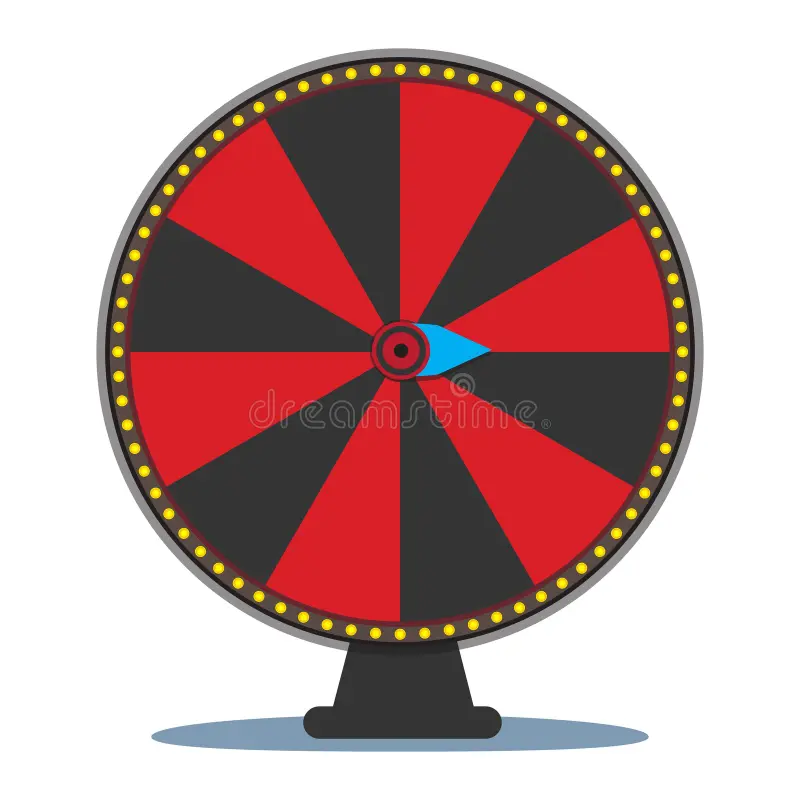
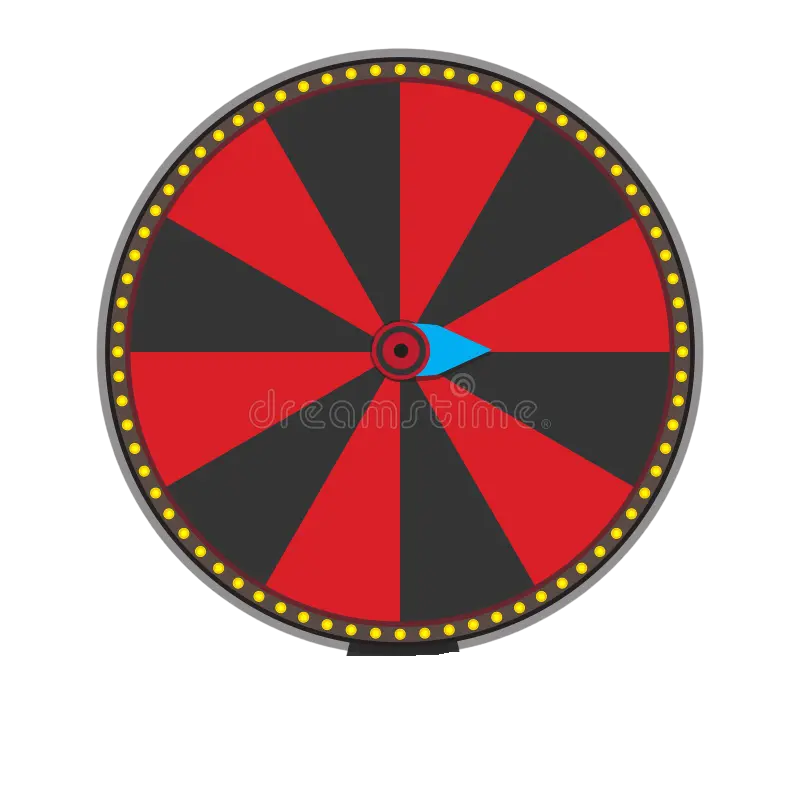
Fix image transparency and sync with updated Figma
- Re-download genie_image22 + genie_image23 (new Figma refs)
- Remove objectFit:cover from all transparent PNGs
- Remove hidden background image (image17) from ThePlotGenieInteractive
- Remove pulse animation from Interactive red button (now static per Figma)

Changed region(s): [[0.1875, 0.8125, 0.8125, 0.9375]]

diff --git a/src/pages/ThePlotGenie.jsx b/src/pages/ThePlotGenie.jsx
@@ -2,9 +2,7 @@ import { useNavigate } from 'react-router-dom'
 import Scene from '../components/Scene'
 
 const base = import.meta.env.BASE_URL
-
-const monoRegular = "'IBM Plex Mono', monospace"
-const monoLight = "'IBM Plex Mono', monospace"
+const mono = "'IBM Plex Mono', monospace"
 
 export default function ThePlotGenie() {
   const navigate = useNavigate()
@@ -13,14 +11,9 @@ export default function ThePlotGenie() {
     <Scene bg="#000">
 
       {/* ── Text block ─────────────────────────────────────────── */}
-      <div style={{
-        position: 'absolute',
-        left: 61,
-        top: 92,
-        width: 327,
-      }}>
+      <div style={{ position: 'absolute', left: 61, top: 92, width: 327 }}>
         <div style={{
-          fontFamily: monoRegular,
+          fontFamily: mono,
           fontSize: 40,
           fontWeight: 400,
           color: '#fff',
@@ -30,7 +23,7 @@ export default function ThePlotGenie() {
           The Plot Genie.
         </div>
         <div style={{
-          fontFamily: monoLight,
+          fontFamily: mono,
           fontSize: 13,
           fontWeight: 200,
           color: '#fff',
@@ -43,21 +36,21 @@ By relying on mathematical permutations instead of individual composition, the d
         </div>
       </div>
 
-      {/* ── Images ─────────────────────────────────────────────── */}
+      {/* ── Images — transparent PNGs, no objectFit fill ─────── */}
       <img
         src={`${base}images/genie_image23.png`}
         alt=""
-        style={{ position: 'absolute', left: 556, top: 216, width: 372, height: 459, objectFit: 'cover' }}
+        style={{ position: 'absolute', left: 556, top: 216, width: 372, height: 459, display: 'block' }}
       />
       <img
         src={`${base}images/genie_image22.png`}
         alt=""
-        style={{ position: 'absolute', left: 438, top: 272, width: 203, height: 383, objectFit: 'cover' }}
+        style={{ position: 'absolute', left: 438, top: 272, width: 203, height: 383, display: 'block' }}
       />
       <img
         src={`${base}images/genie_vector19.png`}
         alt=""
-        style={{ position: 'absolute', left: 673, top: 272, width: 249, height: 394, objectFit: 'contain' }}
+        style={{ position: 'absolute', left: 673, top: 272, width: 249, height: 394, display: 'block' }}
       />
 
       {/* ── Red start button ───────────────────────────────────── */}
@@ -78,52 +71,29 @@ By relying on mathematical permutations instead of individual composition, the d
         onMouseLeave={e => e.currentTarget.style.transform = 'scale(1)'}
       />
 
-      {/* ── Right sidebar bar + label ───────────────────────────── */}
+      {/* ── Right sidebar ──────────────────────────────────────── */}
       <div style={{
-        position: 'absolute',
-        left: 1372,
-        top: 248,
-        width: 38,
-        height: 330,
-        background: '#fff',
+        position: 'absolute', left: 1372, top: 248, width: 38, height: 330, background: '#fff',
       }} />
       <div style={{
-        position: 'absolute',
-        left: 1347,
-        top: 590,
-        width: 88,
-        fontFamily: 'Inter, sans-serif',
-        fontSize: 12,
-        fontWeight: 400,
-        color: '#fff',
-        lineHeight: '16px',
+        position: 'absolute', left: 1347, top: 590,
+        fontFamily: 'Inter, sans-serif', fontSize: 12, color: '#fff', lineHeight: '16px', whiteSpace: 'pre-wrap',
       }}>
-        Money{'\n'}Making $
+        {'Money\nMaking $'}
       </div>
 
       {/* ── Timeline ────────────────────────────────────────────── */}
-      {/* Horizontal line */}
       <div style={{ position: 'absolute', left: 384, top: 805, width: 672, height: 1, background: '#fff' }} />
-      {/* Ellipse at 1930 */}
       <div style={{
-        position: 'absolute',
-        left: 359,
-        top: 784,
-        width: 50,
-        height: 50,
-        borderRadius: '50%',
-        border: '1px solid #fff',
+        position: 'absolute', left: 359, top: 784, width: 50, height: 50,
+        borderRadius: '50%', border: '1px solid #fff',
       }} />
-      {/* Tick 1930 */}
       <div style={{ position: 'absolute', left: 384, top: 788, width: 1, height: 41, background: '#fff' }} />
-      {/* Tick 1962 */}
       <div style={{ position: 'absolute', left: 720, top: 788, width: 1, height: 41, background: '#fff' }} />
-      {/* Tick 2026 */}
       <div style={{ position: 'absolute', left: 1057, top: 784, width: 1, height: 41, background: '#fff' }} />
-      {/* Year labels */}
-      <div style={{ position: 'absolute', left: 369, top: 841, fontFamily: monoRegular, fontSize: 11, color: '#fff' }}>1930</div>
-      <div style={{ position: 'absolute', left: 705, top: 830, fontFamily: monoRegular, fontSize: 11, color: '#fff' }}>1962</div>
-      <div style={{ position: 'absolute', left: 1042, top: 830, fontFamily: monoRegular, fontSize: 11, color: '#fff' }}>2026</div>
+      <div style={{ position: 'absolute', left: 369, top: 841, fontFamily: mono, fontSize: 11, color: '#fff' }}>1930</div>
+      <div style={{ position: 'absolute', left: 705, top: 830, fontFamily: mono, fontSize: 11, color: '#fff' }}>1962</div>
+      <div style={{ position: 'absolute', left: 1042, top: 830, fontFamily: mono, fontSize: 11, color: '#fff' }}>2026</div>
 
     </Scene>
   )

diff --git a/src/pages/ThePlotGenieInteractive.jsx b/src/pages/ThePlotGenieInteractive.jsx
@@ -9,65 +9,41 @@ export default function ThePlotGenieInteractive() {
   return (
     <Scene bg="#000">
 
-      {/* ── Background image ───────────────────────────────────── */}
-      <img
-        src={`${base}images/genie_bg.png`}
-        alt=""
-        style={{ position: 'absolute', left: 420, top: 150, width: 600, height: 600, objectFit: 'cover', opacity: 0.6 }}
-      />
-
-      {/* ── Images (same as Plot Genie) ─────────────────────────── */}
+      {/* ── Images — transparent PNGs, exact Figma dims ─────── */}
       <img
         src={`${base}images/genie_image23.png`}
         alt=""
-        style={{ position: 'absolute', left: 556, top: 216, width: 372, height: 459, objectFit: 'cover' }}
+        style={{ position: 'absolute', left: 556, top: 216, width: 372, height: 459, display: 'block' }}
       />
       <img
         src={`${base}images/genie_image22.png`}
         alt=""
-        style={{ position: 'absolute', left: 438, top: 272, width: 203, height: 383, objectFit: 'cover' }}
+        style={{ position: 'absolute', left: 438, top: 272, width: 203, height: 383, display: 'block' }}
       />
       <img
         src={`${base}images/genie_vector19.png`}
         alt=""
-        style={{ position: 'absolute', left: 673, top: 272, width: 249, height: 394, objectFit: 'contain' }}
+        style={{ position: 'absolute', left: 673, top: 272, width: 249, height: 394, display: 'block' }}
       />
 
-      {/* ── Red button (active / spinning state) ───────────────── */}
-      <div
-        style={{
-          position: 'absolute',
-          left: 765,
-          top: 415,
-          width: 52,
-          height: 49,
-          borderRadius: '50%',
-          background: '#E70303',
-          cursor: 'default',
-          animation: 'pulse 1.5s ease-in-out infinite',
-        }}
-      />
+      {/* ── Red button ─────────────────────────────────────────── */}
+      <div style={{
+        position: 'absolute',
+        left: 765,
+        top: 415,
+        width: 52,
+        height: 49,
+        borderRadius: '50%',
+        background: '#E70303',
+      }} />
 
       {/* ── Right sidebar ──────────────────────────────────────── */}
       <div style={{
-        position: 'absolute',
-        left: 1372,
-        top: 248,
-        width: 38,
-        height: 330,
-        background: '#fff',
+        position: 'absolute', left: 1372, top: 248, width: 38, height: 330, background: '#fff',
       }} />
       <div style={{
-        position: 'absolute',
-        left: 1347,
-        top: 590,
-        width: 88,
-        fontFamily: 'Inter, sans-serif',
-        fontSize: 12,
-        fontWeight: 400,
-        color: '#fff',
-        lineHeight: '16px',
-        whiteSpace: 'pre-wrap',
+        position: 'absolute', left: 1347, top: 590,
+        fontFamily: 'Inter, sans-serif', fontSize: 12, color: '#fff', lineHeight: '16px', whiteSpace: 'pre-wrap',
       }}>
         {'Money\nMaking $'}
       </div>
@@ -92,21 +68,11 @@ export default function ThePlotGenieInteractive() {
         onMouseEnter={e => e.currentTarget.style.background = 'rgba(255,255,255,0.1)'}
         onMouseLeave={e => e.currentTarget.style.background = 'transparent'}
       >
-        <span style={{
-          fontFamily: "'Cutive Mono', monospace",
-          fontSize: 14,
-          color: '#fff',
-        }}>
+        <span style={{ fontFamily: "'Cutive Mono', monospace", fontSize: 14, color: '#fff' }}>
           Next
         </span>
       </div>
 
-      <style>{`
-        @keyframes pulse {
-          0%, 100% { transform: scale(1); opacity: 1; }
-          50% { transform: scale(0.92); opacity: 0.85; }
-        }
-      `}</style>
     </Scene>
   )
 }
